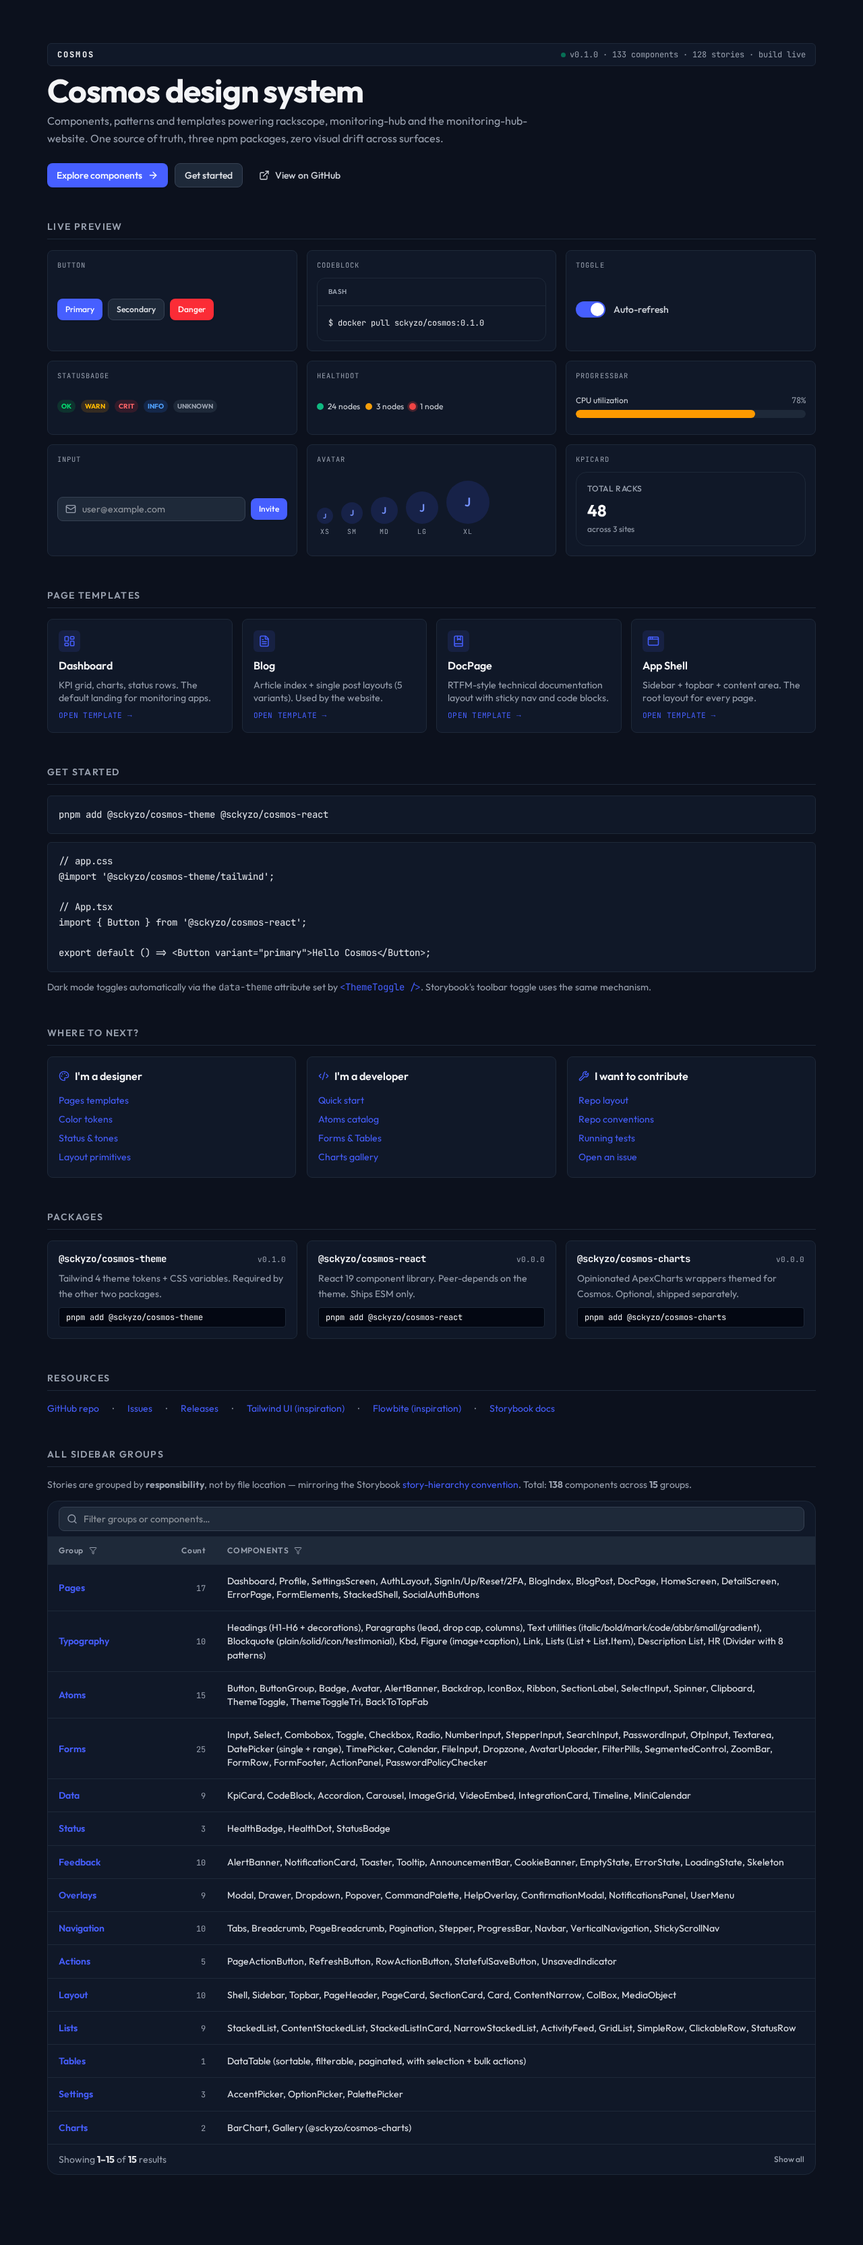
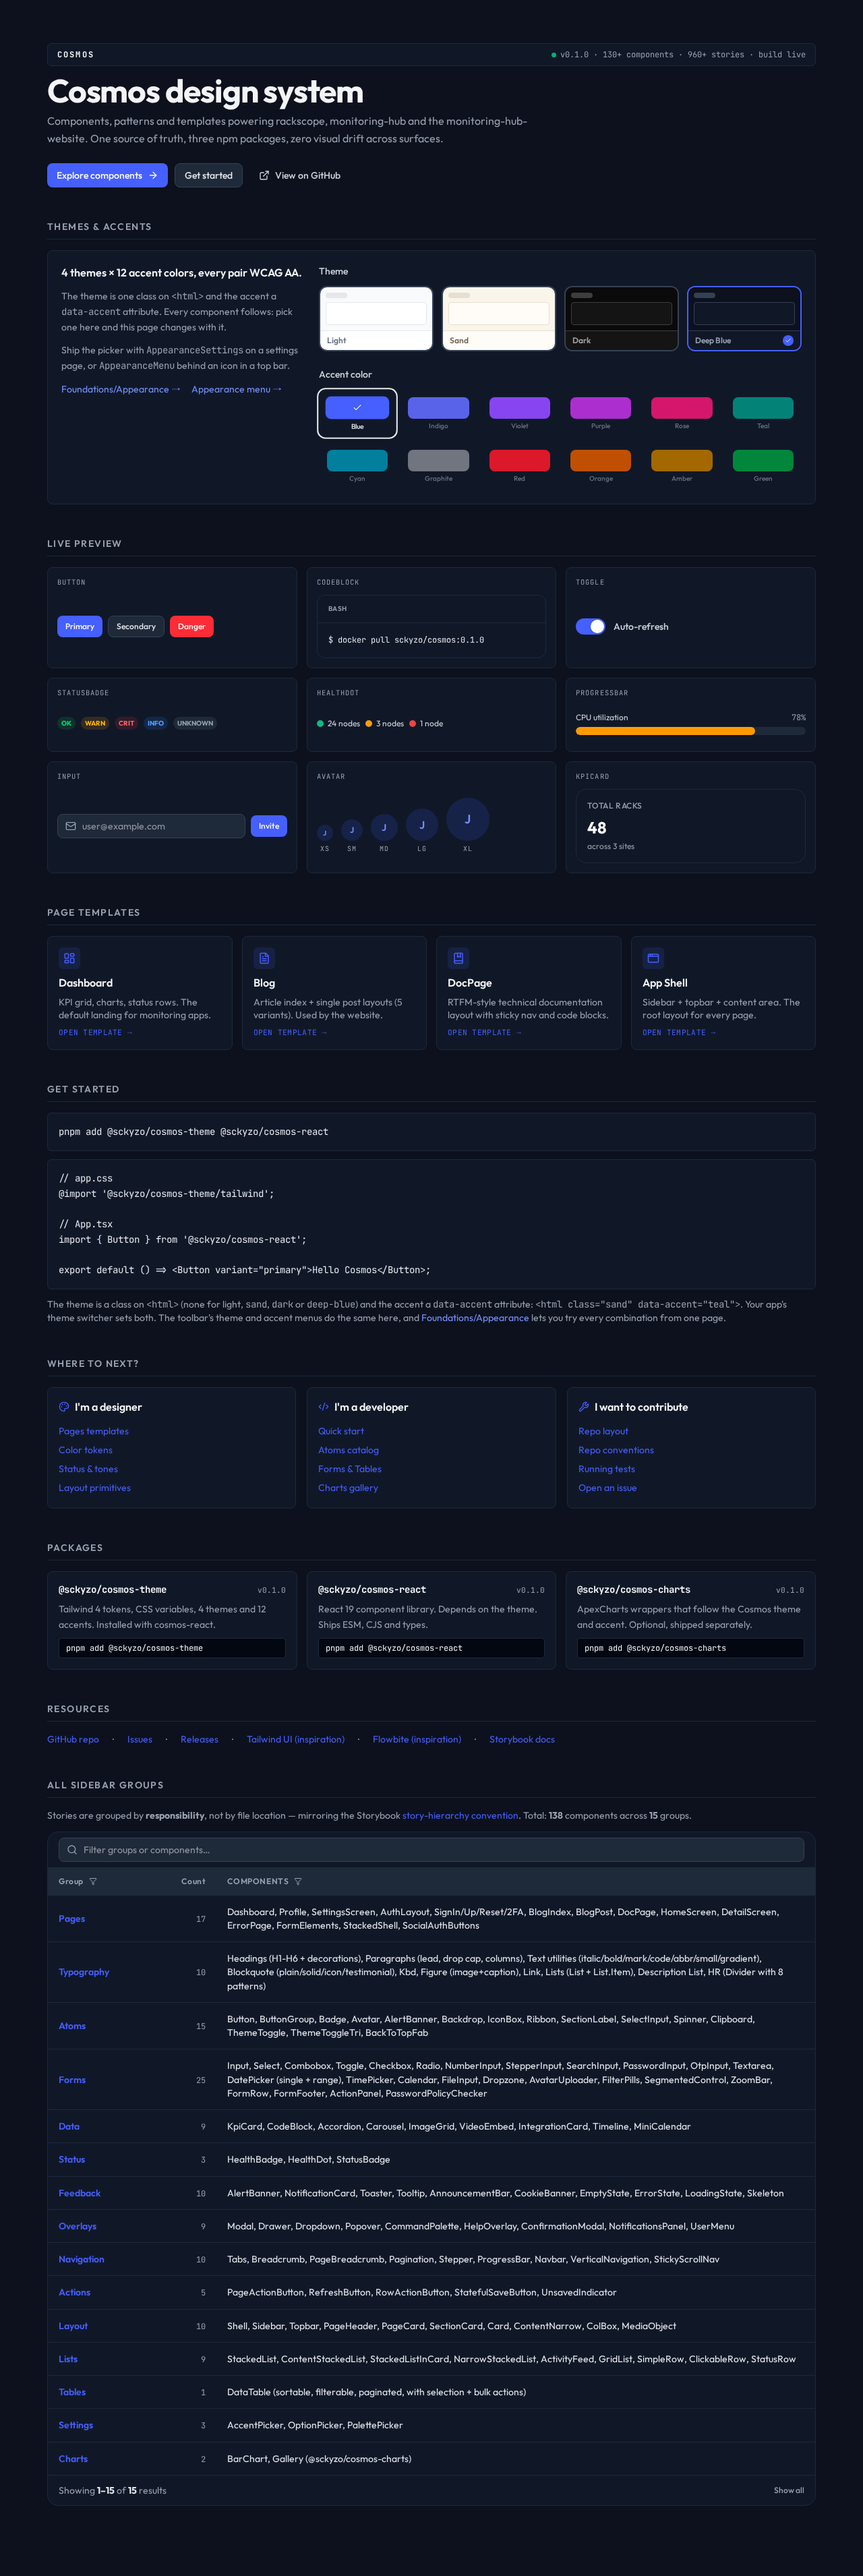
docs: refresh the docs for the 0.1.0 themes and accents
- README: themes and accents section, story count, theme package line,
  and new Welcome screenshots (the page now opens on the theme picker).
- CONTRIBUTING: theming rules (palette classes, brand-600 text, dark
  focus borders, contrast script), the release steps (release PR without
  CI, tags, npm publish per package from main), current setup times and
  test scope, and no review requirement on main.
- Spec: implemented in 0.1.0, with what changed during implementation.
- Welcome page: package versions read from the package.json files, and
  the package cards no longer claim "ESM only" or "peer-depends".

diff --git a/apps/storybook/stories/Welcome.stories.tsx b/apps/storybook/stories/Welcome.stories.tsx
@@ -28,6 +28,10 @@ import {
   type CosmosAppearance,
 } from '../../../packages/react/src';
 import type { ColumnDef } from '../../../packages/react/src/table/types';
+// Versions come from the packages so the page can't drift from what's published.
+import chartsPkg from '../../../packages/charts/package.json';
+import reactPkg from '../../../packages/react/package.json';
+import themePkg from '../../../packages/theme/package.json';
 
 // ---------------------------------------------------------------------------
 // Welcome page rendered as a regular story (not MDX) so that the preview
@@ -365,7 +369,7 @@ const WelcomePage = ({
       <span className="font-bold tracking-[0.18em] text-gray-900 dark:text-gray-100">COSMOS</span>
       <span className="text-gray-500 dark:text-gray-400">
         <span className="mr-1.5 inline-block size-[7px] animate-pulse rounded-full bg-emerald-500" />
-        v0.1.0 · 133 components · 128 stories · build live
+        v{reactPkg.version} · 130+ components · 960+ stories · build live
       </span>
     </div>
 
@@ -627,20 +631,20 @@ export default () => <Button variant="primary">Hello Cosmos</Button>;`}
       <div className="grid gap-3.5 md:grid-cols-3">
         <PkgCard
           name="@sckyzo/cosmos-theme"
-          version="v0.1.0"
-          what="Tailwind 4 theme tokens + CSS variables. Required by the other two packages."
+          version={`v${themePkg.version}`}
+          what="Tailwind 4 tokens, CSS variables, 4 themes and 12 accents. Installed with cosmos-react."
           install="pnpm add @sckyzo/cosmos-theme"
         />
         <PkgCard
           name="@sckyzo/cosmos-react"
-          version="v0.0.0"
-          what="React 19 component library. Peer-depends on the theme. Ships ESM only."
+          version={`v${reactPkg.version}`}
+          what="React 19 component library. Depends on the theme. Ships ESM, CJS and types."
           install="pnpm add @sckyzo/cosmos-react"
         />
         <PkgCard
           name="@sckyzo/cosmos-charts"
-          version="v0.0.0"
-          what="Opinionated ApexCharts wrappers themed for Cosmos. Optional, shipped separately."
+          version={`v${chartsPkg.version}`}
+          what="ApexCharts wrappers that follow the Cosmos theme and accent. Optional, shipped separately."
           install="pnpm add @sckyzo/cosmos-charts"
         />
       </div>

diff --git a/CONTRIBUTING.md b/CONTRIBUTING.md
@@ -7,21 +7,21 @@ The host needs only `docker`, `git`, `gh`, `make`, `bash`.
 ```bash
 git clone git@github.com:SckyzO/cosmos.git
 cd cosmos
-make build-image          # Build cosmos-dev (first time, ~5 min)
-make install              # pnpm install inside container
+make build-image          # Build cosmos-dev (first time, under a minute)
+make install              # pnpm install + Playwright browsers, inside the container
 ```
 
 ## Daily workflow
 
 ```bash
 make storybook            # http://localhost:6006 — component playground
-make test                 # Unit tests (Vitest)
+make test                 # Story tests (Vitest browser mode), e2e and the theme contrast check
 make ci                   # Full CI before pushing
 ```
 
 ## Branch model
 
-- `main` — protected, signed commits required, PR + review needed
+- `main` — protected: signed commits, changes through a PR with green CI
 - Feature branches : `feat/<scope>`, `fix/<scope>`, `chore/<scope>`, `docs/<scope>`
 - One PR = one focused change. Squash multiple commits if cleaner.
 
@@ -50,13 +50,41 @@ git config --global commit.gpgsign true
 gh ssh-key add ~/.ssh/id_ed25519_signing.pub --type signing --title "cosmos signing"
 ```
 
+## Theming rules
+
+- Components use Tailwind palette classes (`bg-white`, `text-gray-500`, `dark:bg-gray-900`,
+  `bg-brand-500`). Themes and accents redefine those variables, so a component never needs
+  per-theme classes or hardcoded hex colors.
+- Accent-colored text (links, active labels) is `text-brand-600 dark:text-brand-400`.
+  `text-brand-500` drops under 4.5:1 on the sand theme.
+- In dark themes `dark:border-gray-700` wins over `focus:border-brand-500`; add an explicit
+  `dark:focus:` variant when a component shows focus with its border.
+- After a change in `packages/theme/css/`, run `./devctl run pnpm --filter @sckyzo/cosmos-theme test`:
+  it fails on the first theme × accent pair under its WCAG threshold.
+- Check visual changes in the four themes with the Storybook toolbar (Theme and Accent menus).
+
 ## PR checklist
 
 - [ ] `make ci` passes locally
 - [ ] New components have a Storybook story
-- [ ] Visual changes : screenshot in PR description
+- [ ] Visual changes : screenshot in PR description, checked in the four themes
 - [ ] Public API changes : update package README
 - [ ] Breaking changes : add `BREAKING CHANGE:` footer to commit
+
+## Releases
+
+[release-please](https://github.com/googleapis/release-please) keeps a release PR open on
+`main` from the Conventional Commits. While the packages are below 1.0, a breaking change
+bumps the minor version (`bump-minor-pre-major`).
+
+1. The GitHub Actions token opens the release PR, so no CI runs on it. Close and reopen it,
+   or push a commit to it, to get the required checks.
+2. Merge it. release-please tags each package (`@sckyzo/cosmos-theme@0.1.0`) and creates the
+   GitHub releases.
+3. Publish to npm from `main`, theme first:
+   `gh workflow run publish.yml -f package=cosmos-theme`, then `cosmos-react`, then
+   `cosmos-charts`. Each run waits for approval in the `npm-publish` environment. Don't
+   run it on a tag: both publish steps would run and the second one fails.
 
 ## Merge strategy
 

diff --git a/README.md b/README.md
@@ -2,7 +2,7 @@
 
 Design system for sckyzo's projects — React 19 + Tailwind 4 + Storybook 10.
 
-**Live demo:** [sckyzo.github.io/cosmos](https://sckyzo.github.io/cosmos/) — 135+ components across 16 groups, 940+ stories, dark/light theming.
+**Live demo:** [sckyzo.github.io/cosmos](https://sckyzo.github.io/cosmos/) — 135+ components across 16 groups, 960+ stories, four themes and twelve accent colors.
 
 <picture>
   <source media="(prefers-color-scheme: dark)" srcset="docs/images/welcome-dark.png">
@@ -19,9 +19,27 @@ portals, and rackscope itself eventually).
 
 | Package                                    | Description                                                    | npm                                                                                                               |
 | ------------------------------------------ | -------------------------------------------------------------- | ----------------------------------------------------------------------------------------------------------------- |
-| [`@sckyzo/cosmos-theme`](packages/theme)   | Tailwind 4 theme — design tokens, fonts, light/dark CSS vars   | [![npm](https://img.shields.io/npm/v/@sckyzo/cosmos-theme)](https://www.npmjs.com/package/@sckyzo/cosmos-theme)   |
+| [`@sckyzo/cosmos-theme`](packages/theme)   | Tailwind 4 theme — design tokens, fonts, 4 themes, 12 accents  | [![npm](https://img.shields.io/npm/v/@sckyzo/cosmos-theme)](https://www.npmjs.com/package/@sckyzo/cosmos-theme)   |
 | [`@sckyzo/cosmos-react`](packages/react)   | React 19 component library — 135+ components, ESM + CJS + DTS  | [![npm](https://img.shields.io/npm/v/@sckyzo/cosmos-react)](https://www.npmjs.com/package/@sckyzo/cosmos-react)   |
 | [`@sckyzo/cosmos-charts`](packages/charts) | Opinionated ApexCharts wrappers themed for Cosmos (separately) | [![npm](https://img.shields.io/npm/v/@sckyzo/cosmos-charts)](https://www.npmjs.com/package/@sckyzo/cosmos-charts) |
+
+## Themes and accents
+
+Two settings on the `<html>` element restyle every component:
+
+- the **theme**, one class: none for `light`, `sand`, `dark` (neutral black/gray) or
+  `deep-blue` (navy);
+- the **accent**, a `data-accent` attribute: none for `blue`, or `indigo`, `violet`,
+  `purple`, `rose`, `teal`, `cyan`, `graphite`, `red`, `orange`, `amber`, `green`.
+
+```html
+<html class="sand" data-accent="teal"></html>
+```
+
+Every theme and accent pair meets WCAG AA; `scripts/check-contrast.mjs` in the theme
+package checks it on every CI run. `@sckyzo/cosmos-react` ships the pickers
+(`AppearanceSettings`, and `AppearanceMenu` for a top bar) and `applyAppearance` to set
+both. Details in the [theme README](packages/theme#themes--accents).
 
 ## Apps
 

diff --git a/docs/specs/themes-accents.md b/docs/specs/themes-accents.md
@@ -1,6 +1,12 @@
 # Spec — 4 themes and 12 accent colors
 
-> Status: approved.
+> Status: implemented in 0.1.0 (#145, then #146 for `AppearanceMenu`).
+>
+> Changes made during implementation: `PalettePreview` gained an optional `text` color so
+> light and dark previews stay readable in one picker; Sidebar icons in active rows inherit
+> the label color; `PageBreadcrumb` link hover moved to `brand-600`; LineAreaChart got a fix
+> for y-axis labels that went blank after an options update. The release is 0.1.0, not
+> 1.0.0 (`bump-minor-pre-major`).
 
 ## Goal
 
